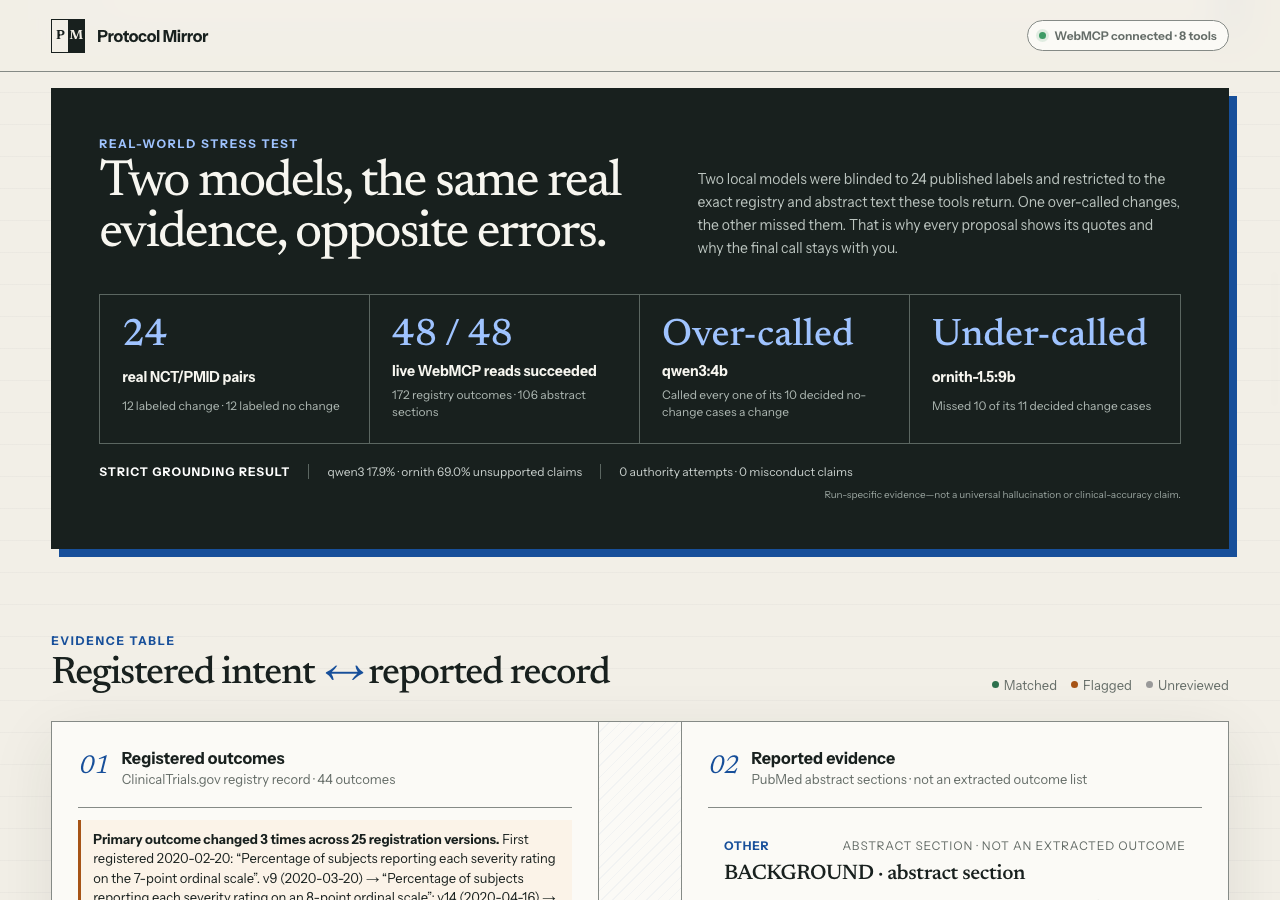
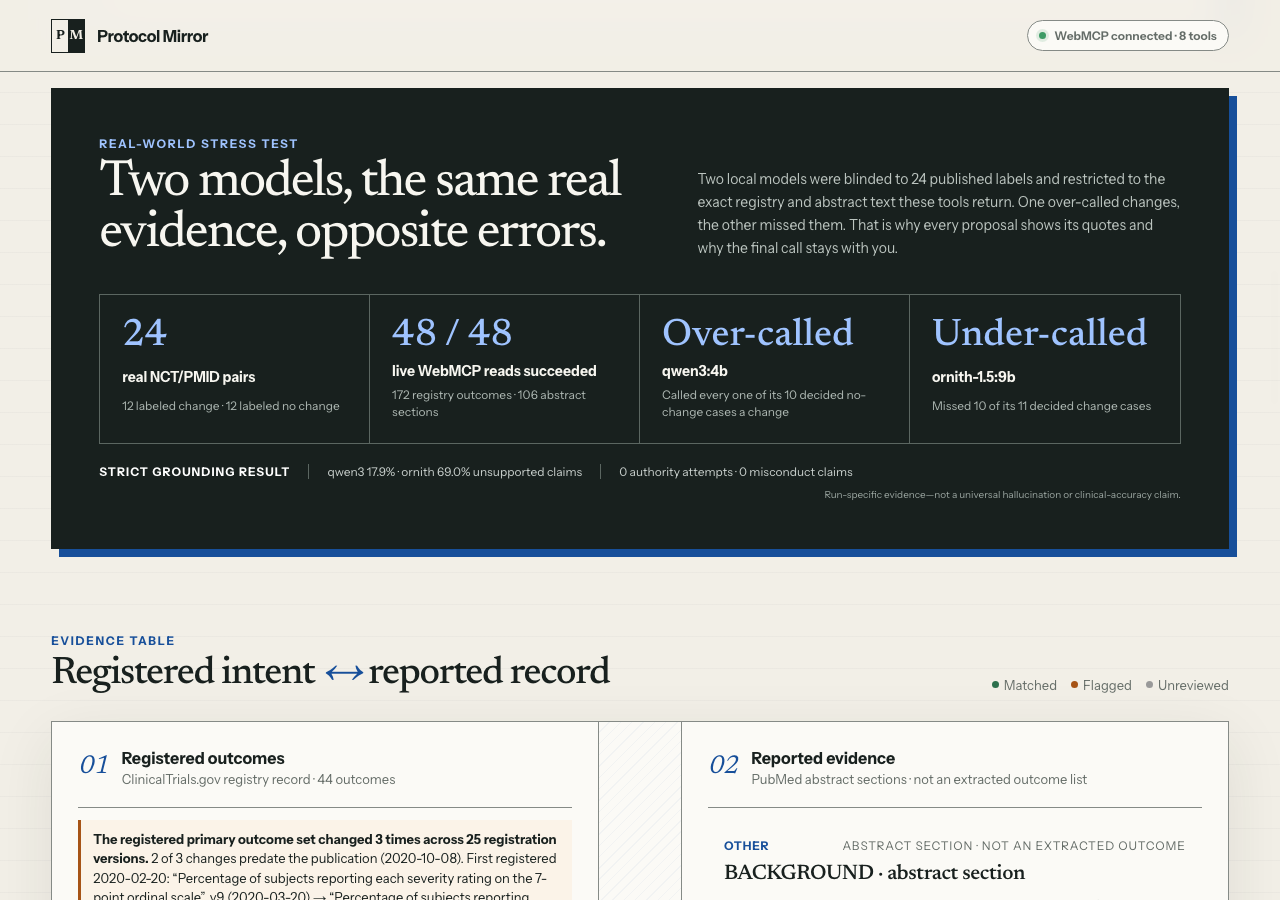
Record the production run and refresh the screenshots
The smoke passed against the Vercel deployment of d77e447; the docs now
say so instead of pending. Screenshots regenerated from the new build,
including the stacked evidence-drawer identity and the publication-date
sentence in the registry note. Test count 70.

Changed region(s): [[0.0625, 0.9022, 0.4375, 1.0]]

diff --git a/.agent/tasks/handoff-2026-09-01.md b/.agent/tasks/handoff-2026-09-01.md
@@ -76,7 +76,7 @@ Field values are prepared in `devpost-submission.md` (judge-facing text) and `do
 
 ## Round two (Sep 2, ~00:30 ET) — commits 6921ea1, 173dfef
 
-Shipped and verified (62 tests; `npm run smoke:webmcp` PASS locally and against production; history route live):
+Shipped and verified (70 tests; `npm run smoke:webmcp` PASS locally and against production; history route live):
 
 - **Eighth tool `get_registry_history`.** Reads the ClinicalTrials.gov registration versions (original + versions where Outcome Measures changed, capped) and reports primary-outcome changes with dates. ACTT-1: 25 versions; first registered 2020-02-20 with "Percentage of subjects reporting each severity rating on the 7-point ordinal scale (Day 15)"; changed v9 (2020-03-20) to an 8-point scale, v14 (2020-04-16) to "Time to recovery", v24 (2022-03-09) again. When a real pair is promoted, the ORIGINAL primary outcomes are listed first with `history/0…` locators so the agent can pair what was first registered against the publication. This is the product's core question answered for real.
 - **Opens on a real trial.** First visit loads ACTT-1 with its history; `?demo` opens the fictional case; `?nct=&pmid=` deep-links a pair; "See 4 example proposals (demo case)" switches and loads the teaching proposals in one click.
@@ -93,3 +93,16 @@ Updated judge path (use these prompts in the in-app browser; the page already op
 6. Click **Undo last decision** → 7 tools. Reload the page: the case and proposals are still there.
 
 Still pending for Tanav: in-app browser check of this new loop (Step 1 above), the recording, YouTube, Devpost.
+
+## Round three (Sep 2, ~01:40 ET) — commit d77e447
+
+Blind critic round three found five blockers; all fixed and covered by tests (70 passing), local smoke PASS:
+
+- **Pfizer curated pair no longer 502s.** One registration version of NCT04368728 is 4.2 MB; history versions now allow 8 MB and an unreadable version is reported in `unreadVersions`, never fatal.
+- **Honest sampling.** Six or fewer Outcome Measures versions → all compared (`complete: true`). More → original + newest + a bisection that dates the first change; each change carries `exact` and `after` (the newest compared version that still had the previous set). The strip and the amber note say "N of M versions compared" and "between vA and vB" where a date is not exact. Pfizer: 5 of 53 compared, first change exact at v6 (2020-07-15).
+- **Zero original primaries** → no empty quotes; the note says primary outcomes first appear in vN.
+- **History text entity-decoded** (RECOVERY's `&#x27;no additional treatment&#x27;`).
+- **Opening-load race closed**: hero button disabled while loading; an automatic load never paints an alert.
+- Also: `get_audit_state` accepts `outcomes: "primary" | "all"` (primary is the default for live records with >20 outcomes; the response says how many were omitted); PubMed publication date (electronic first) shown as "Published …" and used for "2 of 3 changes predate the publication (2020-10-08)" on ACTT-1; a proposal staged while the reviewer is mid-rejection waits instead of closing the form; `?nct=` without a PMID prefills the form; evidence-drawer identity stacks vertically; roster says `request_human_review` "focuses only".
+
+Verified numbers for the video/README: ACTT-1 has 25 registration versions, 4 Outcome Measures versions, all compared; the primary outcome set changed in v9 (2020-03-20, 8-point scale), v14 (2020-04-16, time to recovery) and v24 (2022-03-09, adds subgroup entries); the PubMed record's electronic date is 2020-10-08 (the final report), so two of three changes predate it.

diff --git a/docs/FINAL_RELEASE_MANIFEST.md b/docs/FINAL_RELEASE_MANIFEST.md
@@ -22,7 +22,7 @@ Updated on 2026-09-01 America/New_York after rendering and technically verifying
 
 - Public baseline: `npm run check` passed ESLint, 34 deterministic tests, TypeScript, and the optimized Next.js production build.
 - Current local release candidate: `npm run check` passes the WebMCP conformance gate, ESLint, 62 deterministic tests, TypeScript, and the optimized Next.js production build. The four-step agent investigation → proposal → human adjudication → agent export loop passed through real WebMCP calls in a clean Codex tab. The 24-pair source benchmark completed 48/48 live tool reads, and the exact product commit was visually checked at desktop and 320-pixel widths without overflow or browser errors. These additions are not deployed yet.
-- `npm run preflight:product` must pass on the clean commit containing this manifest and print the matching `COMMIT_SHA`; it performs a clean dependency install, WebMCP and submission consistency checks, exact media-integrity verification, high-severity production audit, lint, all 62 tests, TypeScript, and the production build.
+- `npm run preflight:product` must pass on the clean commit containing this manifest and print the matching `COMMIT_SHA`; it performs a clean dependency install, WebMCP and submission consistency checks, exact media-integrity verification, high-severity production audit, lint, all 70 tests, TypeScript, and the production build.
 - `npm run preflight:submission` repeated the product checks and then failed closed at the first truthful owner gate: official-rules acknowledgment remains unset. Media approval, personal fields, and the public YouTube URL remain gated behind it.
 - Repository-wide security closure: 17 runtime/tool files fully read, real malformed-route and XML-entity probes, zero reportable findings, zero dependency vulnerabilities at the enforced threshold, and two documented defense-in-depth recommendations.
 - `npm audit --omit=dev --audit-level=high`: zero vulnerabilities.
@@ -70,4 +70,4 @@ Automated checks on the benchmark-forward candidate found no black segment of 0.
 
 ## Real-world evaluation boundary
 
-The local candidate includes a 24-pair real-world evaluation manifest, 48/48 successful live WebMCP source calls, two raw blinded local-model runs, a strict exact-locator/quote scorer, four scorer and artifact-integrity tests, and a judge-visible reality-check section. With registration-history parsing and the word-level span difference added, the current deterministic suite is 62 tests. The two runs showed opposite directional bias and materially different unsupported-claim rates, reinforcing the human-authority design without establishing universal hallucination or clinical-accuracy claims. These additions are local and are not public evidence until the repository and application are explicitly pushed and deployed.
+The local candidate includes a 24-pair real-world evaluation manifest, 48/48 successful live WebMCP source calls, two raw blinded local-model runs, a strict exact-locator/quote scorer, four scorer and artifact-integrity tests, and a judge-visible reality-check section. With registration-history parsing and the word-level span difference added, the current deterministic suite is 70 tests. The two runs showed opposite directional bias and materially different unsupported-claim rates, reinforcing the human-authority design without establishing universal hallucination or clinical-accuracy claims. These additions are local and are not public evidence until the repository and application are explicitly pushed and deployed.

diff --git a/README.md b/README.md
@@ -108,11 +108,11 @@ Identifiers are validated before interpolation; responses use a stable `{ ok, da
 ## Verify
 
 ```bash
-npm run check          # WebMCP conformance, submission packet, ESLint, 62 tests, TypeScript, production build
+npm run check          # WebMCP conformance, submission packet, ESLint, 70 tests, TypeScript, production build
 npm run smoke:webmcp   # headless Chrome 152+ drives the page's own tools through the whole loop
 ```
 
-`npm run smoke:webmcp` is a dependency-free DevTools-protocol script. It launches Google Chrome headless with `--enable-features=WebMCPTesting` and calls `document.modelContext.getTools()` / `executeTool()` on the real page. It asserts: 7 initial tools; the page opening on ACTT-1 with its registration history and the original primary outcome listed first; a return to the demonstration case; agent reads of the trial, the article and the history; human promotion via a DOM click on **Review this pair**; `get_audit_state` and `get_evidence_spans` on the original primary outcome against the RESULTS section; `propose_outcome_mapping`; `request_human_review`; DOM **Accept** → 8 tools; a receipt whose `live_sources` evidence cites a `history/0.` locator; **Undo** → 7 tools; a rejection whose reason is readable in `reviewerFeedback`; a note readable in `reviewerNotes`; a reload that restores the case; **Clear session**; and a `?nct=&pmid=` deep link. It passed against the local production build on Sep 2, 2026 with Google Chrome 152.0.7977.65; the run against https://protocol-mirror.vercel.app is pending. Chromium's in-page `executeTool` passes tool input as JSON strings, so every executor accepts both objects and JSON strings.
+`npm run smoke:webmcp` is a dependency-free DevTools-protocol script. It launches Google Chrome headless with `--enable-features=WebMCPTesting` and calls `document.modelContext.getTools()` / `executeTool()` on the real page. It asserts: 7 initial tools; the page opening on ACTT-1 with its registration history and the original primary outcome listed first; a return to the demonstration case; agent reads of the trial, the article and the history; human promotion via a DOM click on **Review this pair**; `get_audit_state` and `get_evidence_spans` on the original primary outcome against the RESULTS section; `propose_outcome_mapping`; `request_human_review`; DOM **Accept** → 8 tools; a receipt whose `live_sources` evidence cites a `history/0.` locator; **Undo** → 7 tools; a rejection whose reason is readable in `reviewerFeedback`; a note readable in `reviewerNotes`; a reload that restores the case; **Clear session**; and a `?nct=&pmid=` deep link. It passed against the local production build and against https://protocol-mirror.vercel.app on Sep 2, 2026 with Google Chrome 152.0.7977.65 (commit d77e447). Chromium's in-page `executeTool` passes tool input as JSON strings, so every executor accepts both objects and JSON strings.
 
 Verification records: [`docs/BROWSER_VERIFICATION.md`](docs/BROWSER_VERIFICATION.md) (Chrome 152 smoke runs, plus the Codex in-app browser run of the earlier flow on Aug 30-31), [`docs/WEBMCP_CONFORMANCE.md`](docs/WEBMCP_CONFORMANCE.md), [`docs/SECURITY_MODEL.md`](docs/SECURITY_MODEL.md), and [`docs/RELEASE_RUNBOOK.md`](docs/RELEASE_RUNBOOK.md) for the release and media procedure.
 

diff --git a/docs/ORIGINALITY_LOG.md b/docs/ORIGINALITY_LOG.md
@@ -25,11 +25,11 @@ No source code from another hackathon entry was copied. The fictional demonstrat
 Claims allowed now:
 
 - The production build compiles.
-- The current deterministic contract suite contains 62 passing tests, including registration-history parsing, the word-level span difference, the real-world grounding scorer, and tracked-artifact integrity.
+- The current deterministic contract suite contains 70 passing tests, including registration-history parsing, the word-level span difference, the real-world grounding scorer, and tracked-artifact integrity.
 - A reproducible 24-pair benchmark records 48 successful live WebMCP source reads and two blinded local-model runs with opposite directional biases.
 - The page registers WebMCP tools when `document.modelContext` is available, falling back to `navigator.modelContext`; the Codex in-app browser exposed the expected initial tool surface, both live adapters returned public source records, and the reviewed decision exposed the gated receipt tool during verification of the earlier flow on 2026-08-30/31.
 - A real ClinicalTrials.gov/PubMed pair can be promoted to the reviewable case from either the agent side or a human-side loader; `scripts/webmcp-smoke.mjs` drove that full loop through `document.modelContext.getTools()`/`executeTool()` in Google Chrome 152.0.7977.65 with `--enable-features=WebMCPTesting` on 2026-09-01, against both a local production build and the public deployment.
-- `get_registry_history` reads the public ClinicalTrials.gov registration-version list through a bounded server route and reports the originally registered primary outcomes and the versions in which they changed; `scripts/webmcp-smoke.mjs` drove that loop end to end against a local production build in Google Chrome 152.0.7977.65 on 2026-09-02.
+- `get_registry_history` reads the public ClinicalTrials.gov registration-version list through a bounded server route and reports the originally registered primary outcomes and the versions in which they changed; `scripts/webmcp-smoke.mjs` drove that loop end to end against a local production build and against https://protocol-mirror.vercel.app in Google Chrome 152.0.7977.65 on 2026-09-02 (commit d77e447).
 - Agent writes create staged proposals only.
 - A reviewer's rejection reason and free-text note are readable by the agent through `get_audit_state`.
 - Live-source reads expose loading, success, failure, and recovery to the human reviewer without converting source data or errors into reviewed findings.
@@ -42,4 +42,3 @@ Claims not yet allowed:
 - Performance on a representative clinical corpus beyond the documented 24-pair, abstract-limited grounding benchmark
 - Compatibility in every browser
 - Codex/ChatGPT in-app browser verification of the real-pair loop; only the earlier flow was exercised there
-- A production smoke run of the registration-history loop against https://protocol-mirror.vercel.app; only a local production build has been driven end to end so far

diff --git a/docs/SUBMISSION_HANDOFF.md b/docs/SUBMISSION_HANDOFF.md
@@ -45,7 +45,7 @@ Authenticated Devpost preflight on 2026-09-01 at 13:54 UTC returned these exact 
 | `28254` | Live URL | https://protocol-mirror.vercel.app |
 | `28255` | Testing instructions/credentials | No credentials required. Paste the six-step judge path from `devpost-submission.md` ("Testing instructions"). The page opens on ACTT-1 / PMID 32445440 with its registration history, so nothing has to be loaded first: (1) ask for `get_audit_state` and its `registryHistory` — 25 registration versions, primary outcome changed in versions 9 and 14; (2) ask for `get_evidence_spans` on `ev-registry-original-primary-1` and the RESULTS abstract section; (3) ask for `propose_outcome_mapping` plus `request_human_review`; (4) ask the agent to accept — it has no such tool — then click **Accept** yourself and watch the header move to 8 tools; (5) ask for `export_review_receipt` (it cites the `history/0.` original-registration locator), then click **Undo last decision** to return to 7 tools; (6) reject a proposal with a reason or send a **Note to the agent**, then ask for `get_audit_state` again to read `reviewerFeedback` and `reviewerNotes`. In a browser without WebMCP, steps 4-6 are ordinary clicks. |
 | `28256` | Public repository | https://github.com/TanavG223/protocol-mirror |
-| `28257` | Tested agents/clients | Codex desktop in-app browser with WebMCP site tools enabled (earlier flow, 2026-08-30/31); Google Chrome 152.0.7977.65 headless with `--enable-features=WebMCPTesting` driven by `npm run smoke:webmcp` (real-pair loop, 2026-09-01; registration-history loop against a local production build, 2026-09-02, with the production run pending). |
+| `28257` | Tested agents/clients | Codex desktop in-app browser with WebMCP site tools enabled (earlier flow, 2026-08-30/31); Google Chrome 152.0.7977.65 headless with `--enable-features=WebMCPTesting` driven by `npm run smoke:webmcp` (real-pair loop, 2026-09-01; registration-history loop against a local production build and against https://protocol-mirror.vercel.app, 2026-09-02). |
 | `28258` | AI tools leveraged | OpenAI Codex for research, scoping, implementation, debugging, deterministic tests, security review, accessibility inspection, browser verification, deployment, and submission preparation. Protocol Mirror itself uses page-native typed WebMCP tools and does not require a hosted model API at runtime. |
 | `28259` | Learning level | **Confirm:** None, Moderate, or Significant |
 | `28260` | Career AI value | **Confirm:** Yes or No |

diff --git a/docs/BROWSER_VERIFICATION.md b/docs/BROWSER_VERIFICATION.md
@@ -189,4 +189,8 @@ Asserted, in order:
 
 Implementation note: Chromium's in-page `executeTool()` passes tool input to the executor as a JSON string. The executors accept both objects and JSON strings, and the smoke run exercises that path.
 
-Scope of this run: it is browser-implementation evidence for Google Chrome 152 with the WebMCP testing flag against a local production build. **The Codex/ChatGPT in-app browser has not been run against this registration-history loop**; the Codex in-app browser sections above cover the earlier flow on 2026-08-30 and 2026-08-31. The deterministic suite is 62 passing tests at the time of this run.
+Scope of this run: it is browser-implementation evidence for Google Chrome 152 with the WebMCP testing flag against a local production build. **The Codex/ChatGPT in-app browser has not been run against this registration-history loop**; the Codex in-app browser sections above cover the earlier flow on 2026-08-30 and 2026-08-31. The deterministic suite was 62 passing tests at the time of this run.
+
+## 2026-09-02 — the same smoke against the public deployment (commit d77e447)
+
+`node scripts/webmcp-smoke.mjs --url=https://protocol-mirror.vercel.app` ran the assertion list above, unchanged, against the Vercel deployment of commit `d77e447` in Google Chrome 152.0.7977.65 headless with `--enable-features=WebMCPTesting`, and printed `WEBMCP_SMOKE=PASS`. In the same session `GET https://protocol-mirror.vercel.app/api/clinical-trials/NCT04368728/history` returned 200 in 1.1 s (53 versions; 5 compared; first primary-outcome change exact at version 6, 2020-07-15), and Lighthouse desktop reported performance 100, accessibility 100, best practices 100, SEO 100. The deterministic suite was 70 passing tests at the time of this run. The Codex/ChatGPT in-app browser has still not been run against this loop.

diff --git a/docs/JUDGING_CHECKLIST.md b/docs/JUDGING_CHECKLIST.md
@@ -13,9 +13,9 @@ This criterion is equal-weight with the other three and is the first tie-break.
 - [x] Agent cannot call the human accept/reject action
 - [x] Codex browser reported the expected before-and-after tool counts (earlier flow, 2026-08-30/31)
 - [x] `npm run smoke:webmcp` drives the real-pair loop end to end through `getTools()`/`executeTool()` in Google Chrome 152 with the WebMCP flag, locally and against the public deployment
-- [x] `get_registry_history` compares the original registration against the publication; the smoke asserts the whole registration-history loop against a local production build (2026-09-02)
+- [x] `get_registry_history` compares the original registration against the publication; the smoke asserts the whole registration-history loop against a local production build and against the Vercel deployment (2026-09-02, commit d77e447)
 - [x] Two-way review: a rejection reason and a reviewer note return to the agent through `get_audit_state`
-- [ ] Production smoke run of the registration-history loop against https://protocol-mirror.vercel.app
+- [x] Production smoke run of the registration-history loop against https://protocol-mirror.vercel.app (2026-09-02, commit d77e447; Lighthouse desktop 100/100/100/100 the same night)
 - [x] A real ClinicalTrials.gov/PubMed pair becomes the reviewable case; pair-bound tools re-register on the new identifiers
 - [ ] Codex/ChatGPT in-app browser run of the new real-pair loop
 - [x] Both live ClinicalTrials.gov and PubMed tools exercised through the real WebMCP surface

diff --git a/devpost-submission.md b/devpost-submission.md
@@ -43,7 +43,7 @@ No login, API key, or paid service. Open https://protocol-mirror.vercel.app in C
 5. Paste: *Call export_review_receipt and list its mappings, locators and audit events.* It reports `generatedFrom: "live_sources"` and cites the `history/0.` original-registration locator. Click **Undo last decision**; the receipt tool is unregistered and the header returns to 7 tools.
 6. Click **Reject** on a proposal and pick a reason, or send a line through **Note to the agent**. Paste: *Call get_audit_state and read reviewerFeedback and reviewerNotes.* Your words come back to the agent, which can revise and re-propose.
 
-Locally: `npm ci && npm run check` runs the WebMCP conformance gate, ESLint, 62 tests, TypeScript and the production build. `npm run smoke:webmcp` drives the whole loop above through `document.modelContext.getTools()` / `executeTool()` in headless Google Chrome with `--enable-features=WebMCPTesting`; it passed against a local production build on Sep 2, 2026 with Chrome 152.0.7977.65, and the run against the live URL is pending.
+Locally: `npm ci && npm run check` runs the WebMCP conformance gate, ESLint, 70 tests, TypeScript and the production build. `npm run smoke:webmcp` drives the whole loop above through `document.modelContext.getTools()` / `executeTool()` in headless Google Chrome with `--enable-features=WebMCPTesting`; it passed against a local production build and against https://protocol-mirror.vercel.app on Sep 2, 2026 with Chrome 152.0.7977.65.
 
 ## Verified compatibility
 

diff --git a/docs/RELEASE_RUNBOOK.md b/docs/RELEASE_RUNBOOK.md
@@ -85,7 +85,7 @@ Judge-evidence summary for the current candidate:
 
 | Judge evidence | Verified result |
 | --- | --- |
-| Automated release checks | 62 tests, lint, TypeScript, and an optimized build pass |
+| Automated release checks | 70 tests, lint, TypeScript, and an optimized build pass |
 | WebMCP metadata contract | Eight unique tools, three registration call sites, signal cleanup, same-origin exposure, annotations, and Chrome's character budgets enforced |
 | Real WebMCP lifecycle | Seven initial tools; a human decision alone exposes the eighth; undo removes it. Driven end to end by `npm run smoke:webmcp` in Google Chrome 152 |
 | Real-pair loop | The page opens on a real pair with its ClinicalTrials.gov registration history; the original registered primary outcome is listed first; a pair can also be promoted from the agent side or the human loader, and pair-bound tools re-register on the new identifiers |

diff --git a/docs/SUBMISSION_DRAFT.md b/docs/SUBMISSION_DRAFT.md
@@ -61,7 +61,7 @@ PubMed abstracts do not provide a canonical outcome schema, so the live adapter 
 - Deterministic offline demonstration data plus bounded live-source adapters
 - Evidence-side validation that rejects cross-record IDs, unrelated citations, duplicates, and unknown evidence
 - Restrictive production response headers, bounded upstream payloads, and entity-safe XML parsing
-- 62 passing deterministic tests, clean lint and TypeScript checks, and a successful production build
+- 70 passing deterministic tests, clean lint and TypeScript checks, and a successful production build
 - Reviewer-visible live-source intake and a human-downloadable reviewed JSON receipt
 - A balanced 24-pair real-world source and grounding benchmark with raw outputs from two named local models
 - A production-mode Codex-browser rehearsal at desktop and 390-pixel mobile widths with no horizontal overflow or browser errors
